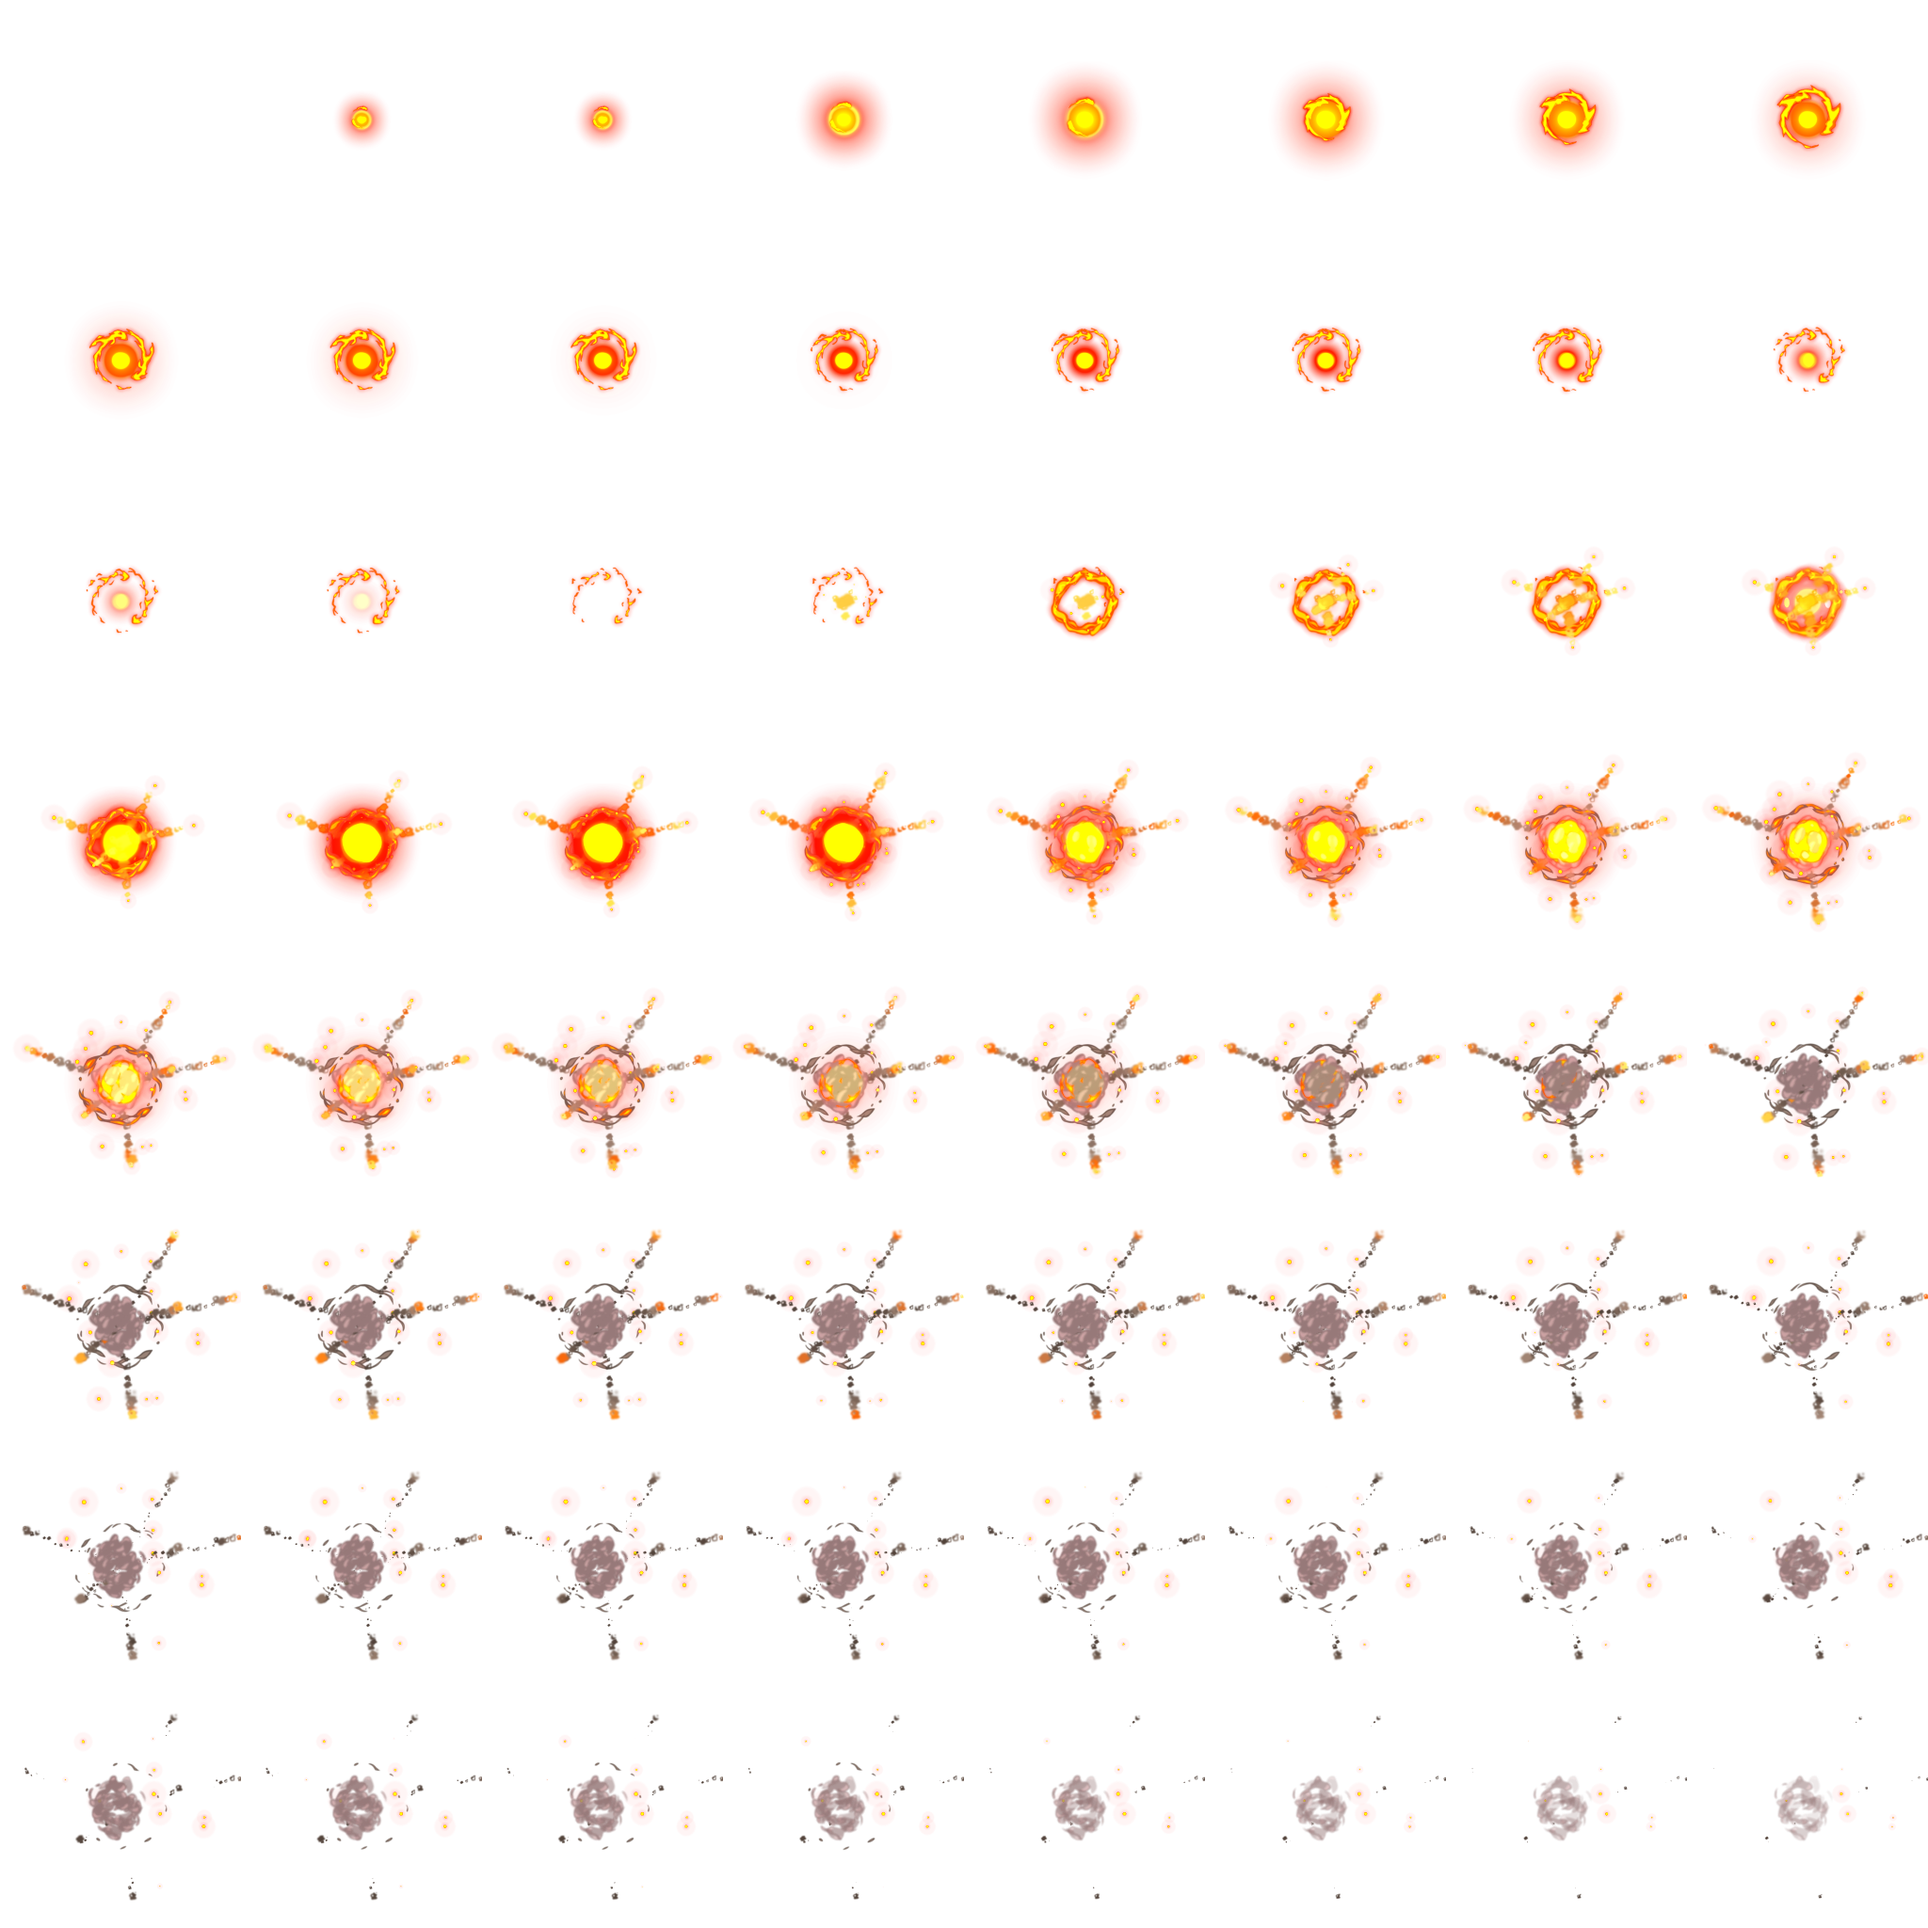
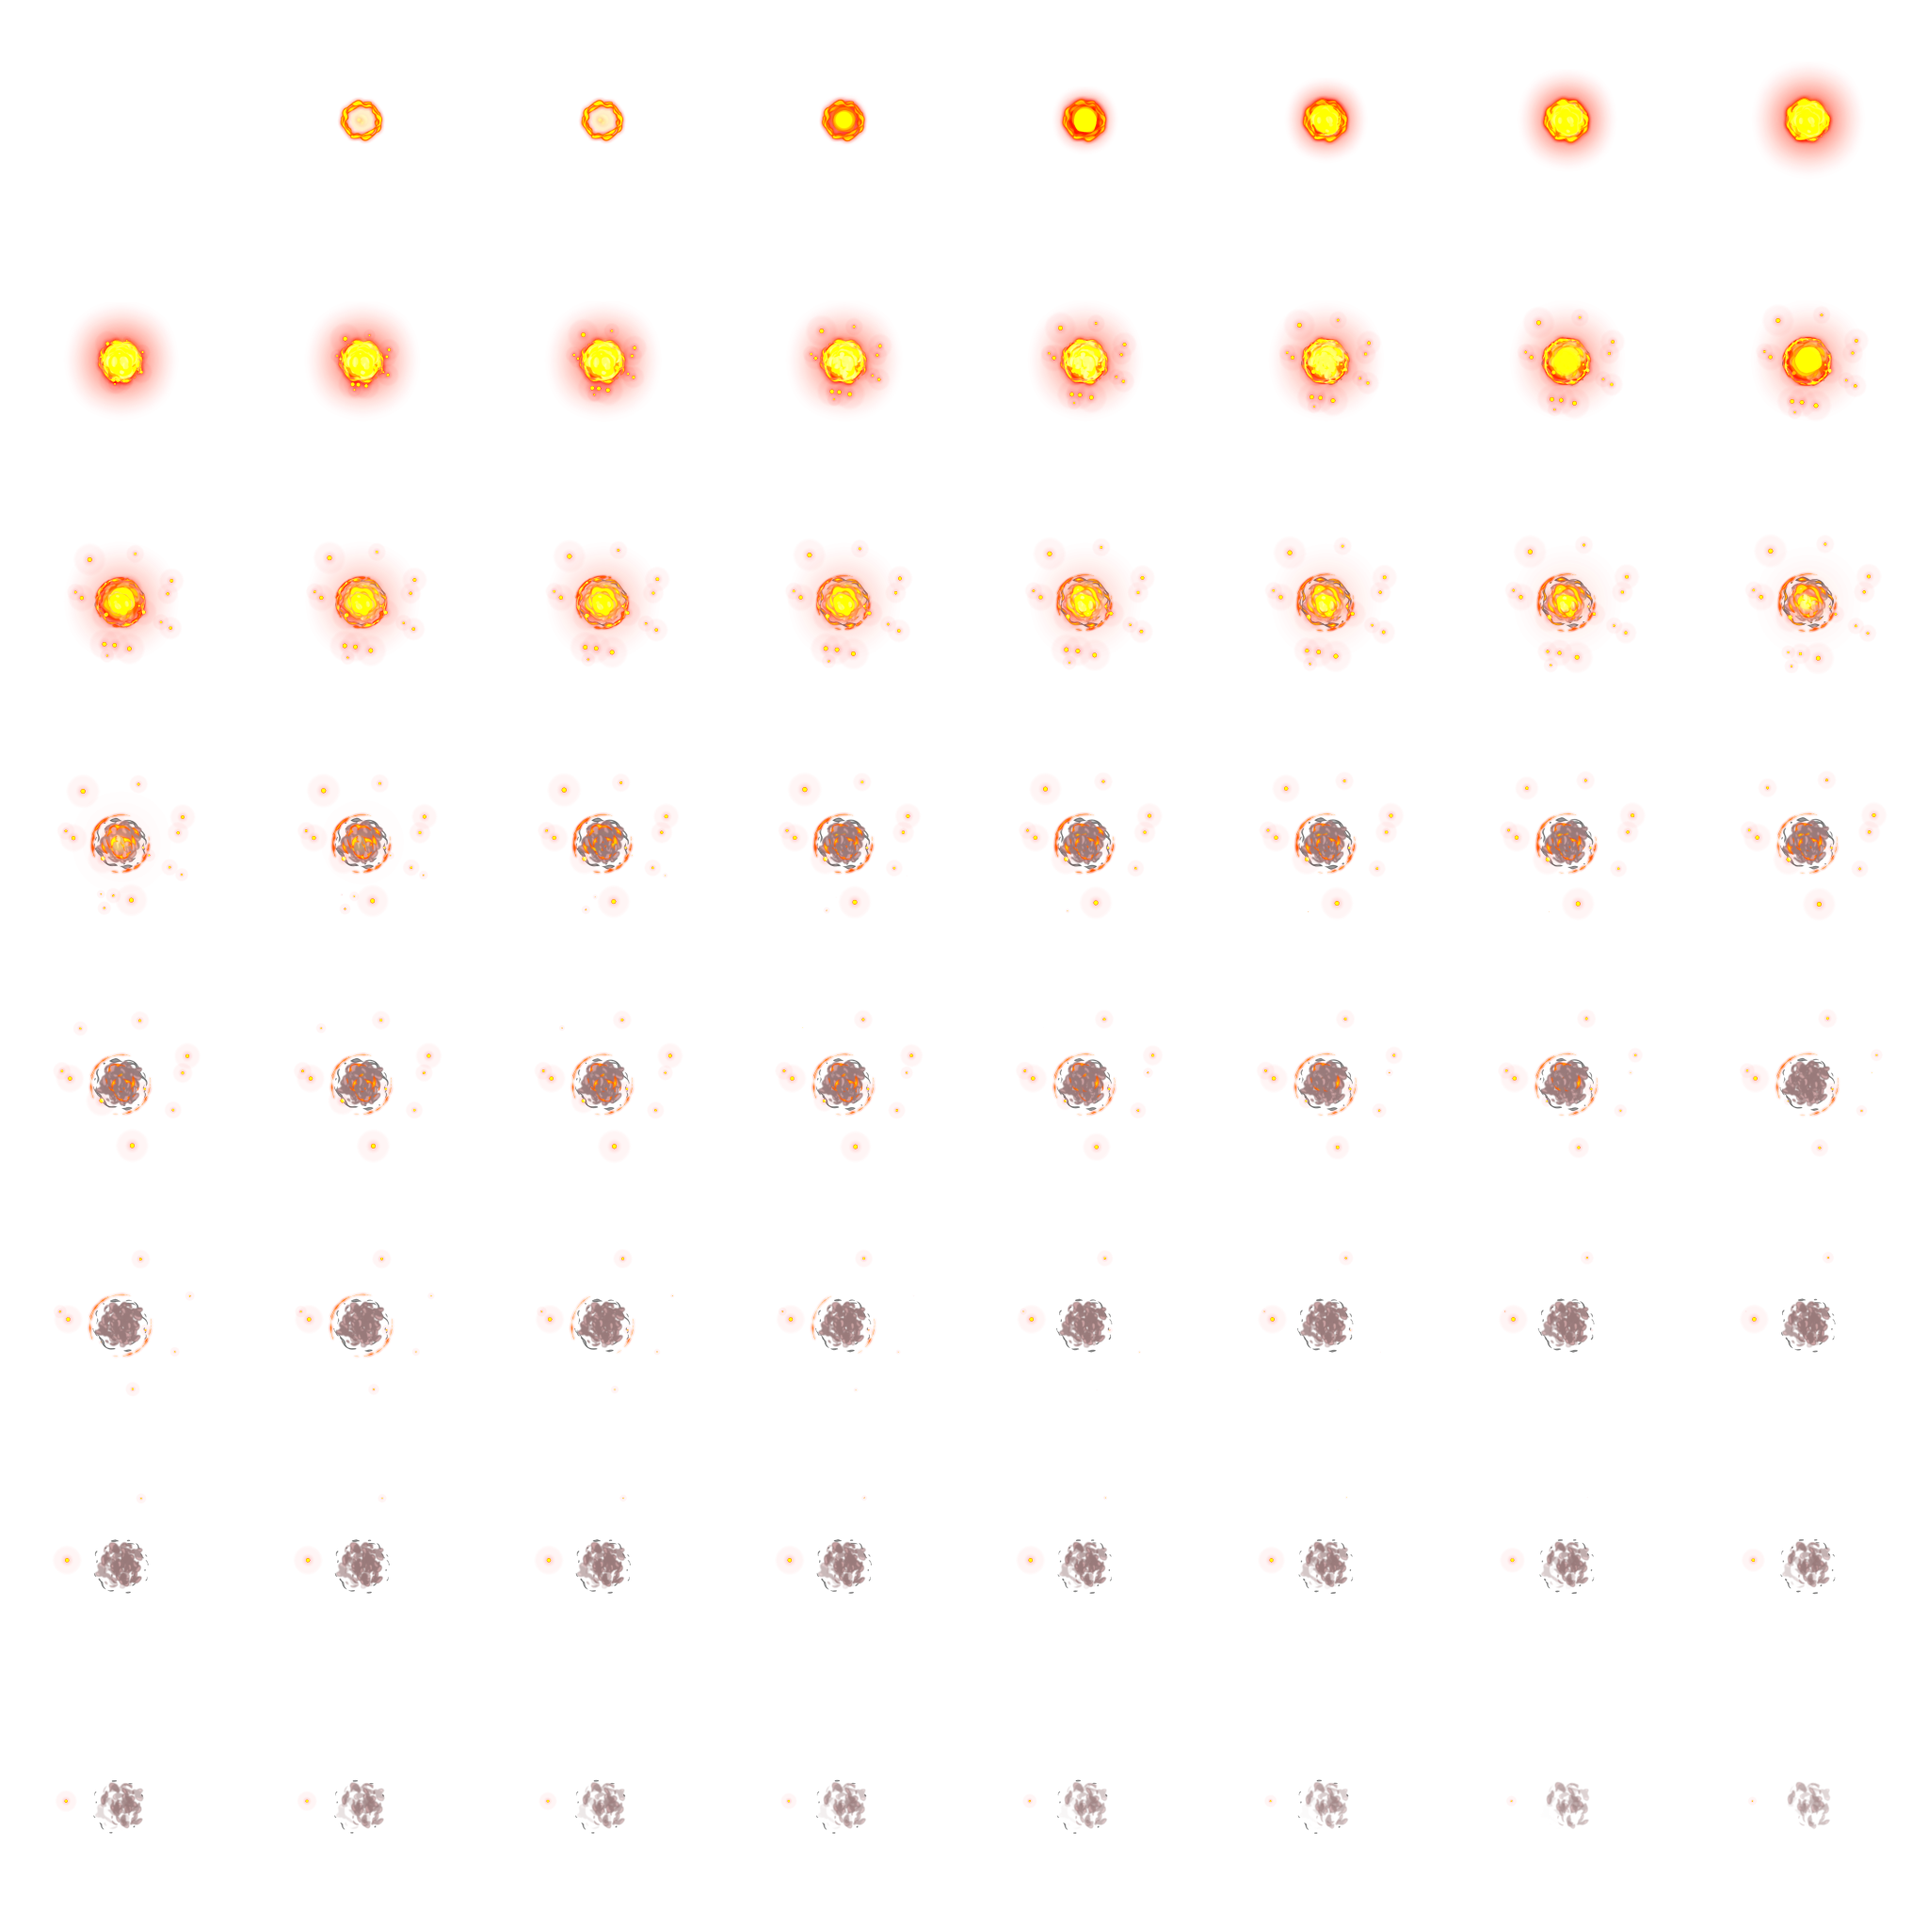
feat: 更新爆炸精灵图纹理和瓦片尺寸

diff --git a/src/effects.rs b/src/effects.rs
@@ -22,9 +22,9 @@ pub fn spawn_explosion(
     let explosion_texture = effect_resources.explosion.clone();
     let explosion_tile_size = UVec2::new(EXPLOSION_TILE_SIZE as u32, EXPLOSION_TILE_SIZE as u32);
     let explosion_texture_atlas =
-        TextureAtlasLayout::from_grid(explosion_tile_size, 10, 10, None, None);
+        TextureAtlasLayout::from_grid(explosion_tile_size, 8, 8, None, None);
     let explosion_texture_atlas_layout = texture_atlas_layouts.add(explosion_texture_atlas);
-    let explosion_animation_indices = AnimationIndices { first: 0, last: 99 };
+    let explosion_animation_indices = AnimationIndices { first: 0, last: 63 };
 
     commands.spawn((
         Explosion,

diff --git a/src/constants.rs b/src/constants.rs
@@ -588,7 +588,7 @@ pub const BULLET_WIDTH: f32 = 60.0; // 子弹宽度
 pub const BULLET_HEIGHT: f32 = 40.0; // 子弹高度
 
 // 特效纹理瓦片尺寸
-pub const EXPLOSION_TILE_SIZE: f32 = 64.0; // 爆炸瓦片尺寸 (10x10 网格，100帧)
+pub const EXPLOSION_TILE_SIZE: f32 = 256.0; // 爆炸瓦片尺寸
 pub const SPARK_TILE_SIZE: f32 = 256.0; // 火花瓦片尺寸
 pub const SMOKE_TILE_SIZE: f32 = 100.0; // 烟雾瓦片尺寸
 pub const FOREST_FIRE_TILE_SIZE: f32 = 131.0; // 森林燃烧瓦片尺寸
